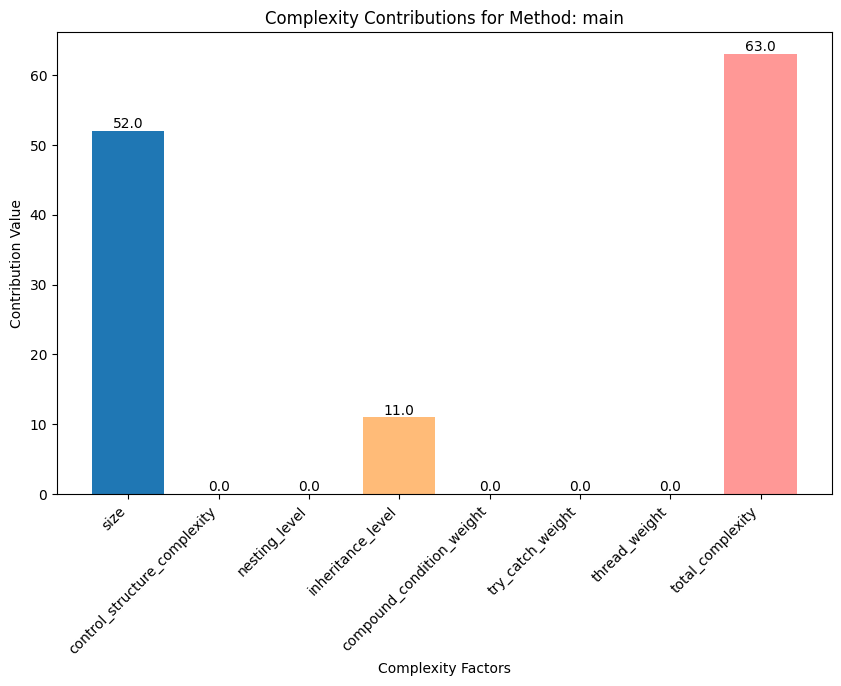
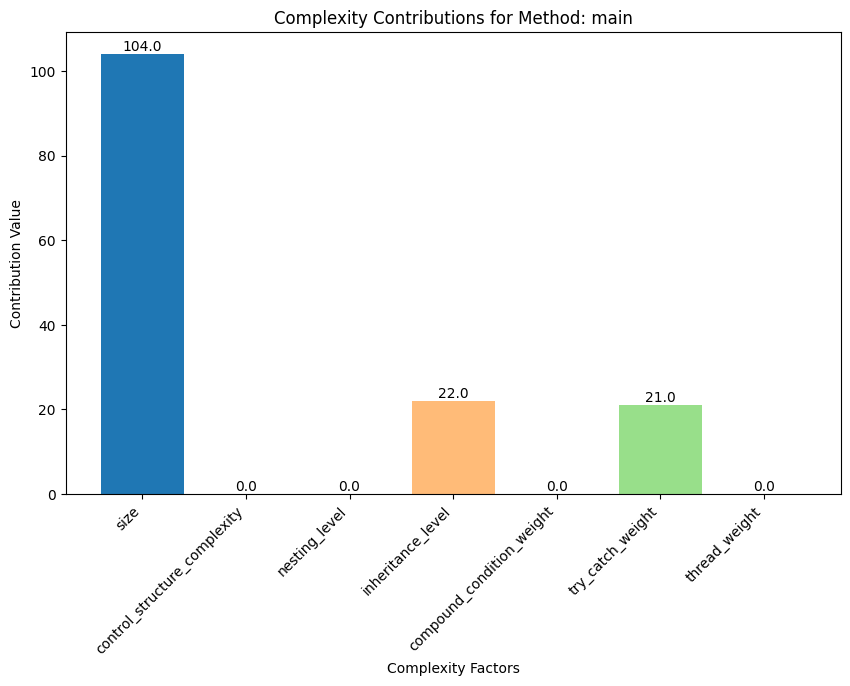
changes commited

diff --git a/templates/complexity_table.html b/templates/complexity_table.html
@@ -2,19 +2,29 @@
 <!DOCTYPE html>
 <html>
 <head>
-    <title>Complexity Results</title>
+    <title>Code Complexity Calculator - Java</title>
     <style>
         body {
-            font-family: Arial, sans-serif;
+            font-family: 'Arial', sans-serif;
             background-color: #f9f9f9;
             color: #333;
             margin: 0;
             padding: 0;
         }
 
-        h1, h2 {
+        h1, h2, h3 {
             text-align: center;
-            margin: 20px;
+            color: #444;
+        }
+
+        h1 {
+            margin-top: 20px;
+            margin-bottom: 30px;
+        }
+
+        h2 {
+            margin-top: 20px;
+            margin-bottom: 10px;
         }
 
         .metrics, .method-complexity {
@@ -43,6 +53,7 @@
             color: #555;
         }
 
+        /* Button */
         .btn {
             display: inline-block;
             padding: 8px 12px;
@@ -84,6 +95,12 @@
             text-align: center;
         }
 
+        .modal-content img {
+            max-width: 100%;
+            height: auto;
+            margin: 0 auto;
+        }
+
         .modal-header {
             display: flex;
             justify-content: space-between;
@@ -101,10 +118,6 @@
 
         .close:hover {
             color: #000;
-        }
-
-        canvas {
-            max-width: 100%;
         }
     </style>
 </head>

diff --git a/Drinks/complexity_calculator.py b/Drinks/complexity_calculator.py
@@ -295,7 +295,7 @@ def calculate_try_catch_weight(java_code):
     """
     Calculates the weight of nesting levels specifically for try-catch-finally blocks in Java code.
     - Increment nesting level for `try`.
-    - Maintain nesting level for `catch` and `finally` but add weights.
+    - Assign weights line by line for `catch` and `finally`.
     """
     java_code = remove_comments(java_code)
     lines = java_code.splitlines()
@@ -304,6 +304,7 @@ def calculate_try_catch_weight(java_code):
     current_nesting = 0
     total_weight = 0
     nesting_levels = []
+    line_weights = {}
 
     # Regular expressions
     control_regex = re.compile(r'\b(try|catch|finally)\b')
@@ -316,7 +317,7 @@ def calculate_try_catch_weight(java_code):
 
         if not stripped_line:
             # Empty lines, just carry over nesting and weight
-            nesting_levels.append((line_no, stripped_line, current_nesting, total_weight))
+            nesting_levels.append((line_no, stripped_line, current_nesting, 0))
             continue
 
         control_match = control_regex.search(stripped_line)
@@ -327,21 +328,21 @@ def calculate_try_catch_weight(java_code):
                 current_nesting += 1  # Increment nesting for `try`
 
             elif control_type == 'catch':
-                # Add weight for `catch` based on the current nesting level
+                # Assign weight for `catch` based on the current nesting level
                 weight = catch_weights.get(current_nesting, 5)
-                total_weight += weight
+                line_weights[line_no] = weight
 
             elif control_type == 'finally':
-                # Add a fixed weight of 2 for `finally`
-                total_weight += 2
+                # Assign a fixed weight of 2 for `finally`
+                line_weights[line_no] = 2
 
-        nesting_levels.append((line_no, stripped_line, current_nesting, total_weight))
+        nesting_levels.append((line_no, stripped_line, current_nesting, line_weights.get(line_no, 0)))
 
         # Adjust nesting levels for closing braces
         if stripped_line.endswith('}'):
             current_nesting -= 1
 
-    return nesting_levels
+    return nesting_levels, line_weights
 
 
 
@@ -998,11 +999,15 @@ def calculate_code_complexity_multiple_files(file_contents):
 
         print("nesting_levels----------------------", nesting_levels)
 
-        try_catch_weights = calculate_try_catch_weight(content)
-        try_catch_weight_dict = {line[0]: line[3] for line in try_catch_weights}
-        print("try_catch_weight_dict###############################################", try_catch_weight_dict)
+        # try_catch_weights = calculate_try_catch_weight(content)
+        # try_catch_weight_dict = {line[0]: line[3] for line in try_catch_weights}
+        # print("try_catch_weight_dict###############################################", try_catch_weight_dict)
+        #
+        # print("try_catch_weights---------------------------------", try_catch_weights)
 
-        print("try_catch_weights---------------------------------", try_catch_weights)
+        try_catch_weights, try_catch_weight_dict = calculate_try_catch_weight(content)
+
+        print("try_catch_weights---------------------------------", try_catch_weight_dict)
 
         # Calculate MPC and CBO for this file
         cbo_value = calculate_cbo(class_references).get(class_name, 0)
@@ -1047,9 +1052,7 @@ def calculate_code_complexity_multiple_files(file_contents):
 
             nesting_level = nesting_level_dict.get(line_number, 0)
             try_catch_weight = try_catch_weight_dict.get(line_number, 0)
-            try_catch_weight2 = try_catch_weight_dict.get(line_number + 1, 0)
             print("try_catch_weight", try_catch_weight)
-            print("try_catch_weight2", try_catch_weight2)
 
             # Calculate control structure complexity
             control_structure_complexity = calculate_control_structure_complexity(line)
@@ -1091,7 +1094,7 @@ def calculate_code_complexity_multiple_files(file_contents):
             # Calculate the total complexity for this line (this could be the sum of all the metrics)
             total_complexity = (
                     size + control_structure_complexity + nesting_level + current_inheritance +
-                    compound_condition_weight + 0 + thread_weight
+                    compound_condition_weight + try_catch_weight + thread_weight
             )
 
             # Update the total WCC for the file
@@ -1129,8 +1132,18 @@ def calculate_code_complexity_multiple_files(file_contents):
 
         # Generate bar chart for each method
         bar_chart_paths = {}
-        for method_name, complexity_factors in method_complexities.items():
-            bar_chart_path = plot_complexity_bar_chart(method_name, complexity_factors, filename)
+        for method_name, method_data in method_complexities.items():
+            relevant_factors = {
+                "size": method_data["size"],
+                "control_structure_complexity": method_data["control_structure_complexity"],
+                "nesting_level": method_data["nesting_level"],
+                "inheritance_level": method_data["inheritance_level"],
+                "compound_condition_weight": method_data["compound_condition_weight"],
+                "try_catch_weight": method_data["try_catch_weight"],
+                "thread_weight": method_data["thread_weight"],
+            }
+
+            bar_chart_path = plot_complexity_bar_chart(method_name, relevant_factors, filename)
             bar_chart_paths[method_name] = bar_chart_path
             print(f"Bar chart generated for method '{method_name}': {bar_chart_path}")
 
@@ -1169,6 +1182,8 @@ def calculate_code_complexity_by_method(content, method_inheritance, class_name)
     nesting_levels = calculate_nesting_level(content)
     nesting_level_dict = {line[0]: line[2] for line in nesting_levels}
 
+    try_catch_weights, try_catch_weight_dict = calculate_try_catch_weight(content)
+
     print("nesting_levels----------------------", nesting_levels)
 
     # Split content by line and analyze each one
@@ -1178,7 +1193,7 @@ def calculate_code_complexity_by_method(content, method_inheritance, class_name)
         if match:
             # If we're already in a method, calculate its complexity
             if method_name:
-                methods[method_name] = calculate_complexity_for_method(method_lines, method_inheritance, class_name, nesting_level_dict)
+                methods[method_name] = calculate_complexity_for_method(method_lines, method_inheritance, class_name, nesting_level_dict, try_catch_weight_dict)
             # Start a new method
             method_name = match.group(1)
             method_lines = [line]
@@ -1188,13 +1203,13 @@ def calculate_code_complexity_by_method(content, method_inheritance, class_name)
 
     # Final method complexity calculation
     if method_name:
-        methods[method_name] = calculate_complexity_for_method(method_lines, method_inheritance, class_name, nesting_level_dict)
+        methods[method_name] = calculate_complexity_for_method(method_lines, method_inheritance, class_name, nesting_level_dict, try_catch_weight_dict)
 
     return methods
 
 
 # Helper function to calculate complexity for a method based on lines of code
-def calculate_complexity_for_method(lines, method_inheritance, class_name, nesting_level_dict):
+def calculate_complexity_for_method(lines, method_inheritance, class_name, nesting_level_dict, try_catch_weight_dict):
     size = 0
     control_structure_complexity = 0
     nesting_level = 0
@@ -1204,6 +1219,7 @@ def calculate_complexity_for_method(lines, method_inheritance, class_name, nesti
     current_inheritance_sum = 0
     current_class = class_name
     total_nesting = 0
+    total_try_catch_weight = 0
 
     current_nesting = 0
     control_structure_stack = []
@@ -1222,6 +1238,9 @@ def calculate_complexity_for_method(lines, method_inheritance, class_name, nesti
         total_nesting += nesting_level
 
         print("total_nesting))))))))))))))))))))))))))))))))))", total_nesting)
+
+        try_catch_weight = try_catch_weight_dict.get(line_number, 0)
+        total_try_catch_weight += try_catch_weight
 
         size += line_size
 
@@ -1249,7 +1268,7 @@ def calculate_complexity_for_method(lines, method_inheritance, class_name, nesti
     # Sum up the complexity metrics for this method
     total_complexity = (
             size + control_structure_complexity + total_nesting + current_inheritance_sum +
-            compound_condition_weight + 0 + thread_weight
+            compound_condition_weight + total_try_catch_weight + thread_weight
     )
 
     print("current_inheritance_sum", current_inheritance_sum)
@@ -1259,7 +1278,7 @@ def calculate_complexity_for_method(lines, method_inheritance, class_name, nesti
         "nesting_level": nesting_level,
         "inheritance_level": current_inheritance_sum,
         "compound_condition_weight": compound_condition_weight,
-        "try_catch_weight": try_catch_weight,
+        "try_catch_weight": total_try_catch_weight,
         "thread_weight": thread_weight,
         "total_complexity": total_complexity
     }
@@ -1335,6 +1354,8 @@ def plot_complexity_bar_chart(method_name, complexity_factors, filename):
     labels = list(complexity_factors.keys())
     values = list(complexity_factors.values())
 
+    print("labels---------------------------", labels)
+    print("values---------------------------", values)
     # Define colors for the bars
     colors = plt.cm.tab20.colors[:len(values)]  # Using tab20 colormap for variety
 
